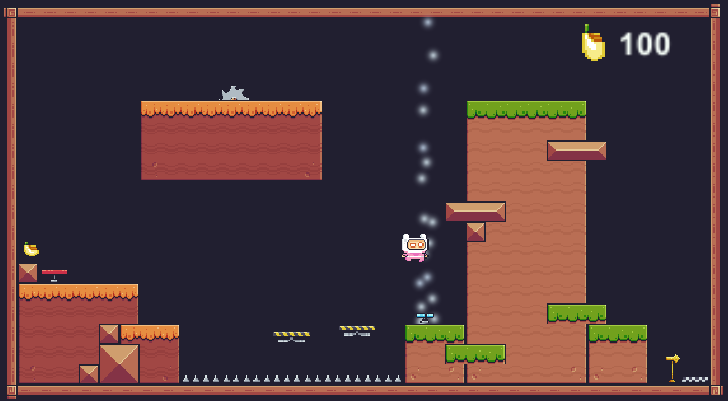
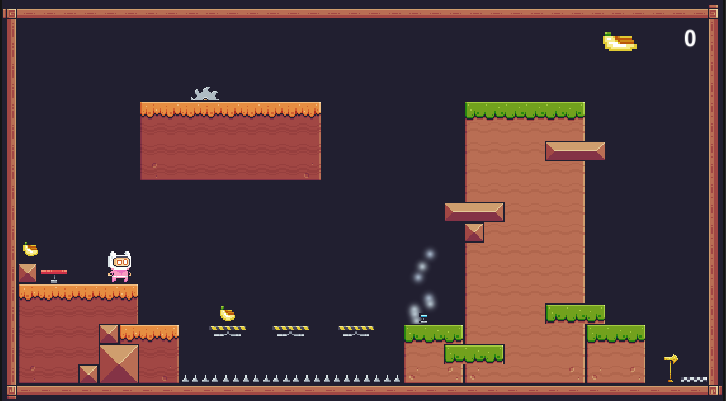
替换截图

diff --git a/README.md b/README.md
@@ -1,6 +1,4 @@
-<div style='text-align:center'>
-  <img src='https://raw.githubusercontent.com/ke-Grandet/Unity2DAdventureGame/master/images/0.png' />
-</div>
+<img src='https://raw.githubusercontent.com/ke-Grandet/Unity2DAdventureGame/master/images/0.png' />
 
 ## 说明
 * 个人自制
